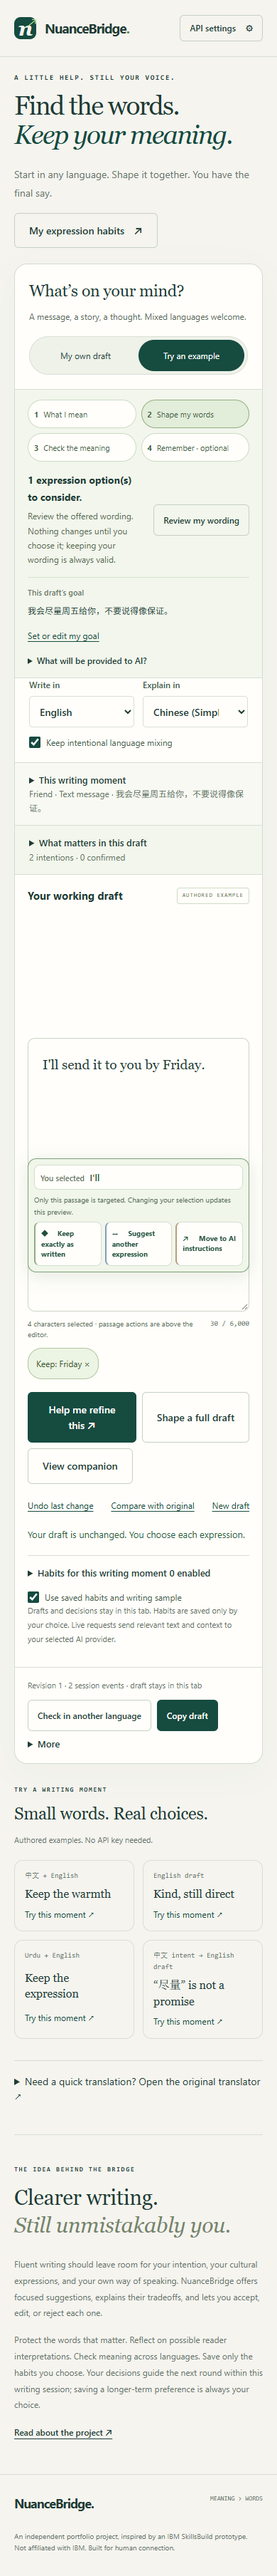
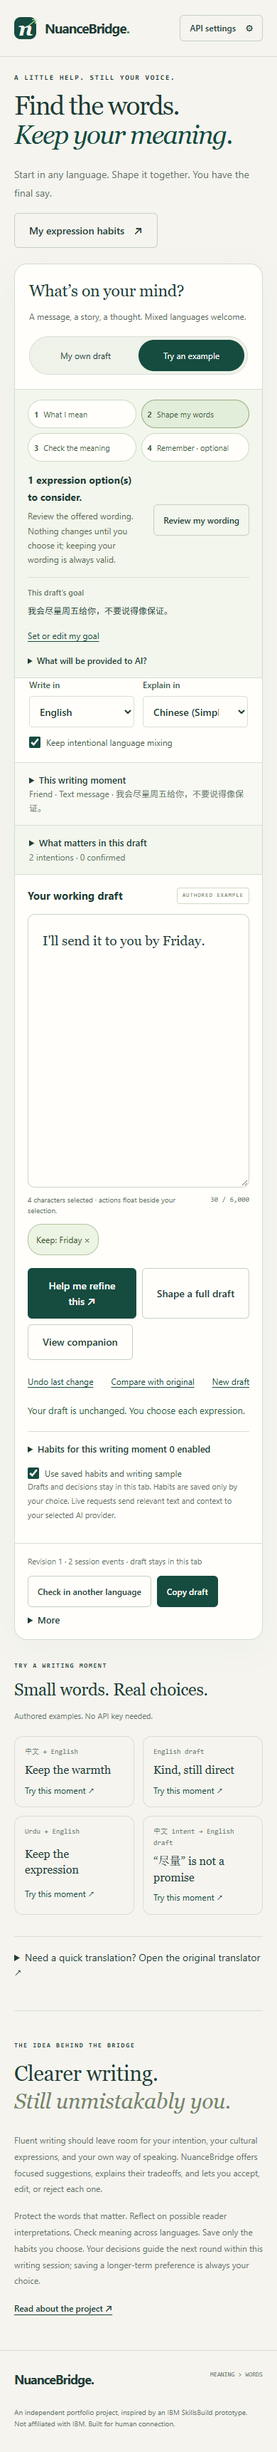
feat: anchor actions to selected text

diff --git a/selection-popover.js b/selection-popover.js
@@ -1,0 +1,79 @@
+import { $, make } from './ui-helpers.js';
+import { selectionRect, placeToolbar } from './selection-position.js';
+
+let activeRange = null, currentKey = '', dismissed = false, scheduled = false;
+function hide() {
+  const toolbar = $('selection-workbench');
+  if (toolbar.showPopover && toolbar.matches(':popover-open')) toolbar.hidePopover();
+  toolbar.classList.remove('popover-fallback-open');
+}
+function position() {
+  scheduled = false;
+  if (!activeRange || dismissed) { hide(); return; }
+  const draft = $('writing-draft'), toolbar = $('selection-workbench');
+  const anchor = selectionRect(draft, activeRange.start, activeRange.end);
+  const companionOpen = matchMedia('(max-width:750px)').matches && $('suggestions-panel').classList.contains('is-open');
+  if (!anchor || companionOpen || document.querySelector('dialog[open]')) { hide(); return; }
+  if (toolbar.showPopover) { if (!toolbar.matches(':popover-open')) toolbar.showPopover(); }
+  else { if (toolbar.parentElement !== document.body) document.body.append(toolbar); toolbar.classList.add('popover-fallback-open'); }
+  const view = window.visualViewport;
+  const viewport = { left: view?.offsetLeft || 0, top: view?.offsetTop || 0, width: view?.width || innerWidth, height: view?.height || innerHeight };
+  toolbar.style.maxWidth = `${Math.max(1, viewport.width - 20)}px`;
+  toolbar.style.maxHeight = `${Math.max(1, viewport.height - 20)}px`;
+  const placed = placeToolbar(anchor, toolbar.getBoundingClientRect(), viewport);
+  toolbar.style.left = `${placed.left}px`; toolbar.style.top = `${placed.top}px`;
+  toolbar.dataset.side = placed.side;
+  toolbar.dataset.anchorTop = String(anchor.top); toolbar.dataset.anchorBottom = String(anchor.bottom);
+}
+export function refreshSelectionPopover(range, text) {
+  const key = range ? `${range.start}:${range.end}:${text}` : '';
+  if (key !== currentKey) dismissed = false;
+  currentKey = key; activeRange = range;
+  if (!range) hide();
+  if (!scheduled) { scheduled = true; requestAnimationFrame(position); }
+}
+export function initSelectionPopover() {
+  const toolbar = $('selection-workbench'), draft = $('writing-draft');
+  const close = make('button', '×', 'selection-close'); close.type = 'button'; close.setAttribute('aria-label', 'Close passage actions');
+  close.addEventListener('click', () => { dismissed = true; hide(); draft.focus({ preventScroll: true }); });
+  toolbar.querySelector('.selection-preview').append(close);
+  const queue = () => { if (!scheduled) { scheduled = true; requestAnimationFrame(position); } };
+  window.addEventListener('scroll', queue, true); window.addEventListener('resize', queue);
+  window.visualViewport?.addEventListener('resize', queue); window.visualViewport?.addEventListener('scroll', queue);
+  if (window.ResizeObserver) new ResizeObserver(queue).observe(draft);
+  const reopen = event => {
+    if (event.key === 'Escape' || event.key === 'Tab') return;
+    if (draft.selectionStart < draft.selectionEnd) { dismissed = false; queue(); }
+  };
+  draft.addEventListener('pointerup', reopen); draft.addEventListener('keyup', reopen);
+  const isOpen = () => Boolean(toolbar.showPopover && toolbar.matches(':popover-open') || toolbar.classList.contains('popover-fallback-open'));
+  draft.addEventListener('keydown', event => {
+    if (event.key !== 'Tab' || event.shiftKey || !isOpen()) return;
+    const first = toolbar.querySelector('.selection-actions button:not(:disabled)');
+    if (first) { event.preventDefault(); first.focus(); }
+  });
+  toolbar.addEventListener('keydown', event => {
+    if (event.key !== 'Tab') return;
+    const controls = [...toolbar.querySelectorAll('button:not(:disabled)')];
+    const index = controls.indexOf(document.activeElement);
+    if (event.shiftKey && index === 0) {
+      event.preventDefault(); dismissed = true; hide(); draft.focus({ preventScroll: true });
+    } else if (!event.shiftKey && index === controls.length - 1) {
+      const outside = [...document.querySelectorAll('button,a[href],input,select,textarea,[tabindex]')]
+        .filter(node => node.tabIndex >= 0 && !node.disabled && !toolbar.contains(node) && node.getClientRects().length);
+      event.preventDefault(); dismissed = true; hide();
+      (outside[outside.indexOf(draft) + 1] || draft).focus({ preventScroll: true });
+    }
+  });
+  document.addEventListener('pointerdown', event => {
+    if (!toolbar.contains(event.target) && event.target !== draft) { dismissed = true; hide(); }
+  }, true);
+  document.addEventListener('focusin', event => {
+    if (!toolbar.contains(event.target) && event.target !== draft) { dismissed = true; hide(); }
+  });
+  document.addEventListener('keydown', event => {
+    if (event.key === 'Escape' && isOpen()) {
+      event.preventDefault(); event.stopPropagation(); dismissed = true; hide(); draft.focus({ preventScroll: true });
+    }
+  }, true);
+}

diff --git a/index.html b/index.html
@@ -42,7 +42,7 @@
       <details id="intent-panel" class="intent-panel"><summary>What matters in this draft <span id="intent-count">Add your own or let AI suggest</span></summary><p class="help">These instructions apply to this draft only. AI guesses stay out of writing requests until you confirm them. Saving a future habit is a separate choice.</p><div id="intent-list"></div><form id="intent-form" class="inline-form"><label class="grow">Add an intention<input id="new-intent" maxlength="400" placeholder="e.g. Keep the uncertainty" required></label><button class="button small outline" type="submit">Add</button></form><button id="extract-intents" class="text-button">Help me clarify my intentions</button></details>
       <div class="writing-main"><div class="draft-column">
         <div class="writing-section-heading"><h3>Your working draft</h3><span id="writing-badge" class="badge">YOUR DRAFT</span></div>
-        <div class="draft-editor-area"><section id="selection-workbench" class="selection-workbench" aria-labelledby="selection-title">
+        <div class="draft-editor-area"><section id="selection-workbench" class="selection-workbench" popover="manual" aria-labelledby="selection-title">
           <div class="selection-heading"><span class="selection-step" aria-hidden="true">1</span><h4 id="selection-title">Choose a passage, then tell us what it needs.</h4></div>
           <div class="selection-preview"><span id="selection-caption" class="field-label">Start here</span><blockquote id="selected-passage" dir="auto">Select a word or sentence in your draft below.</blockquote></div>
           <p id="selection-guidance" class="help">Highlight text below to get started.</p>
@@ -51,10 +51,11 @@
             <div class="selection-action preserve-action"><span class="action-category">KEEP THE EXPRESSION</span><button id="protect-selection" type="button" aria-describedby="protect-outcome" disabled><span aria-hidden="true">◆</span> Keep exactly as written</button><p id="protect-outcome">Keep this wording in the final draft. AI edits will leave it untouched.</p><span class="action-example">e.g. “辛苦了” stays “辛苦了”</span></div>
             <div class="selection-action express-action"><span class="action-category">EXPLORE THE WORDING</span><button id="express-selection" type="button" aria-describedby="expression-destination" disabled><span aria-hidden="true">↔</span> Suggest another expression</button><p id="expression-destination">Preview alternatives in your writing language. You choose whether to use one.</p><span class="action-example">e.g. “尽量” → “try to”</span></div>
             <div class="selection-action instruction-action"><span class="action-category">GUIDE THE AI</span><button id="instruction-selection" type="button" aria-describedby="instruction-outcome" disabled><span aria-hidden="true">↗</span> Move to AI instructions</button><p id="instruction-outcome">After you confirm, remove this note from the draft and add it to your instructions.</p><span class="action-example">e.g. “不要太正式” tells AI how to help</span></div>
-          </div><p id="selection-feedback" class="selection-feedback" role="status" aria-live="polite"></p>
+          </div>
         </section>
         <label class="sr-only" for="writing-draft">Your working draft</label><textarea id="writing-draft" maxlength="6000" rows="10" dir="auto" placeholder="先写下你想说的。English, 中文, or a little of both…"></textarea></div>
         <div class="draft-meta"><span id="writing-selection">Select words for a little extra help.</span><span id="writing-count" class="mono">0 / 6,000</span></div>
+        <p id="selection-feedback" class="selection-feedback" role="status" aria-live="polite"></p>
 
         <div id="protected-phrases" class="protected-phrases" aria-label="Protected expressions"></div>
         <div class="writing-primary-actions"><button id="analyze-writing" class="button primary">Help me refine this ↗</button><button id="starting-draft" class="button outline">Shape a full draft</button><button id="writing-cancel" class="button outline" hidden>Cancel</button><button id="open-companion" class="button outline mobile-only">View companion</button></div>

diff --git a/writing.css b/writing.css
@@ -23,3 +23,18 @@ button,input,select,textarea,summary{touch-action:manipulation}button:focus-visi
 @media(max-width:750px){.flow-guide{padding:14px 18px}.flow-navigation{display:grid;grid-template-columns:1fr 1fr;gap:7px}.flow-navigation button{justify-content:flex-start;font-size:11px;min-height:40px!important;padding:8px}.flow-next{flex-wrap:wrap}.flow-next>.button{margin-top:2px}.goal-anchor{gap:7px}.goal-anchor p{flex-basis:100%;font-size:12px}.check-steps{gap:5px}.check-steps li{padding:7px}.check-steps span{font-size:10px}.selection-workbench.has-selection{top:5px;padding:8px}.selection-workbench.has-selection .selection-actions{gap:5px}.selection-workbench.has-selection .selection-action{padding:5px;border-left-width:2px}.selection-workbench.has-selection .action-category{display:none}.selection-workbench.has-selection .selection-action button{font-size:10px;line-height:1.45;padding:3px!important;min-height:48px!important}.selection-workbench.has-selection .selection-action p{display:none}.selection-workbench.has-selection #selection-guidance{font-size:10px;margin-bottom:5px}.selection-workbench.has-selection .selection-preview{padding:6px 8px;gap:7px}.selection-workbench.has-selection #selected-passage{max-height:42px;font-size:13px}.selection-workbench.has-selection .selection-step{display:none}}
 .writing-workspace{overflow:clip}
 .draft-editor-area{position:relative;min-width:0}
+/* Actions are anchored to the visible selected text, not the editor boundary. */
+.selection-workbench[popover]{display:none;position:fixed;inset:auto;margin:0;width:min(420px,calc(100vw - 20px));max-height:calc(100dvh - 20px);overflow-y:auto;padding:8px;border:1px solid #93ad81;border-radius:10px;background:#f4f8ee;box-shadow:0 8px 30px #243f352b;z-index:40}
+.selection-workbench[popover]:popover-open{display:block}
+.selection-workbench[popover].popover-fallback-open{display:block}
+.selection-workbench[popover].has-selection{position:fixed;inset:auto;margin:0;padding:8px}
+.selection-workbench[popover]>.selection-heading,.selection-workbench[popover] .action-category,.selection-workbench[popover] .action-example,.selection-workbench[popover] .selection-action p{display:none}
+.selection-workbench[popover].has-selection .selection-preview{display:flex;align-items:center;gap:8px;padding:0 2px 6px;border:0;background:transparent}
+.selection-workbench[popover].has-selection #selected-passage{flex:1;min-width:0;max-height:none;white-space:nowrap;overflow:hidden;text-overflow:ellipsis;font-size:12px;line-height:1.7;margin:0}
+.selection-workbench[popover] #selection-caption{font-size:10px;white-space:nowrap}
+.selection-workbench[popover].has-selection #selection-guidance{font-size:10px;line-height:1.5;margin:0 2px 6px}
+.selection-workbench[popover].has-selection .selection-actions{display:grid;grid-template-columns:repeat(3,minmax(0,1fr));gap:5px}
+.selection-workbench[popover].has-selection .selection-action{padding:3px 5px;background:#fffefa;border-left-width:2px}
+.selection-workbench[popover].has-selection .selection-action button{font-size:11px;line-height:1.4;min-height:44px;padding:3px 1px}
+.selection-workbench[popover] .selection-close{border:0;background:transparent;font-size:21px;line-height:1;min-height:28px;min-width:28px;padding:0;color:#41613a}
+@media(max-width:750px){.selection-workbench[popover].has-selection .selection-action button{font-size:10px;min-height:44px!important;padding:3px 1px!important}.selection-workbench[popover].has-selection #selection-guidance{font-size:10px}.selection-workbench[popover] .selection-close{min-height:28px!important}.selection-workbench[popover].has-selection #selected-passage{max-height:none}}

diff --git a/selection-position.js b/selection-position.js
@@ -1,0 +1,44 @@
+const clamp = (value, min, max) => Math.max(min, Math.min(value, Math.max(min, max)));
+
+export function placeToolbar(anchor, size, viewport) {
+  const gap = 10, left = viewport.left + gap, top = viewport.top + gap;
+  const right = viewport.left + viewport.width - gap, bottom = viewport.top + viewport.height - gap;
+  const above = anchor.top - gap - size.height;
+  const below = anchor.bottom + gap;
+  const side = above >= top ? 'above' : below + size.height <= bottom ? 'below' : anchor.top - top >= bottom - anchor.bottom ? 'above' : 'below';
+  return { left: clamp((anchor.left + anchor.right - size.width) / 2, left, right - size.width),
+    top: clamp(side === 'above' ? above : below, top, bottom - size.height), side };
+}
+
+// Textareas expose offsets, not Range rectangles. Mirror their rendered text metrics.
+export function selectionRect(textarea, start, end) {
+  if (start >= end || end > textarea.value.length) return null;
+  const box = textarea.getBoundingClientRect(), css = getComputedStyle(textarea);
+  const mirror = document.createElement('div');
+  for (const key of ['fontFamily', 'fontSize', 'fontWeight', 'fontStyle', 'fontVariant', 'fontStretch', 'fontKerning', 'fontFeatureSettings', 'fontVariantLigatures', 'letterSpacing', 'wordSpacing', 'lineHeight', 'textAlign', 'textIndent', 'textTransform', 'direction', 'tabSize', 'paddingTop', 'paddingRight', 'paddingBottom', 'paddingLeft', 'borderTopWidth', 'borderRightWidth', 'borderBottomWidth', 'borderLeftWidth']) mirror.style[key] = css[key];
+  const borders = parseFloat(css.borderLeftWidth) + parseFloat(css.borderRightWidth);
+  Object.assign(mirror.style, { position: 'fixed', visibility: 'hidden', pointerEvents: 'none', boxSizing: 'border-box',
+    left: `${box.left}px`, top: `${box.top}px`, width: `${textarea.clientWidth + borders}px`,
+    whiteSpace: 'pre-wrap', overflowWrap: 'break-word', borderStyle: 'solid', margin: '0' });
+  mirror.dir = textarea.dir;
+  const selected = document.createTextNode(textarea.value.slice(start, end));
+  mirror.append(document.createTextNode(textarea.value.slice(0, start)), selected, document.createTextNode(textarea.value.slice(end) || '\u200b'));
+  document.body.append(mirror);
+  try {
+    const range = document.createRange(); range.selectNodeContents(selected);
+    const viewport = window.visualViewport;
+    const clip = { left: Math.max(box.left + parseFloat(css.borderLeftWidth), viewport?.offsetLeft || 0),
+      right: Math.min(box.left + textarea.clientWidth + parseFloat(css.borderLeftWidth), (viewport?.offsetLeft || 0) + (viewport?.width || innerWidth)),
+      top: Math.max(box.top + parseFloat(css.borderTopWidth), viewport?.offsetTop || 0),
+      bottom: Math.min(box.bottom - parseFloat(css.borderBottomWidth), (viewport?.offsetTop || 0) + (viewport?.height || innerHeight)) };
+    for (const rect of range.getClientRects()) {
+      const left = rect.left - textarea.scrollLeft, top = rect.top - textarea.scrollTop;
+      const right = rect.right - textarea.scrollLeft, bottom = rect.bottom - textarea.scrollTop;
+      if (bottom > clip.top && top < clip.bottom && right >= clip.left && left <= clip.right) return {
+        left: Math.max(left, clip.left), right: Math.min(Math.max(right, left + 1), clip.right),
+        top: Math.max(top, clip.top), bottom: Math.min(bottom, clip.bottom),
+      };
+    }
+    return null;
+  } finally { mirror.remove(); }
+}

diff --git a/selection-ui.js b/selection-ui.js
@@ -1,4 +1,5 @@
 import { $, make } from './ui-helpers.js';
+import { refreshSelectionPopover } from './selection-popover.js';
 
 // This is a display of the actual textarea range, never an inferred selection.
 export function renderSelection(session, selection, target, busy = false) {
@@ -7,7 +8,7 @@ export function renderSelection(session, selection, target, busy = false) {
   $('selection-workbench').classList.toggle('has-selection', Boolean(selected));
   $('selected-passage').replaceChildren(make('span', selected || 'Select a word or sentence in your draft below.'));
   $('selection-caption').textContent = selected ? 'You selected' : 'Start here';
-  $('writing-selection').textContent = selected ? `${selection.end - selection.start} characters selected · passage actions are above the editor.` : 'Highlight a word or sentence to use the passage controls above the editor.';
+  $('writing-selection').textContent = selected ? `${selection.end - selection.start} characters selected · actions float beside your selection.` : 'Highlight a word or sentence to see actions beside it.';
   $('selection-guidance').textContent = overlap
     ? 'This selection includes protected words. Remove their protection chip before protecting it again or moving it to instructions. Wording suggestions cannot change protected words.'
     : selected ? 'Only this passage is targeted. Changing your selection updates this preview.'
@@ -16,4 +17,8 @@ export function renderSelection(session, selection, target, busy = false) {
   $('express-selection').disabled = !selected || busy;
   $('instruction-selection').disabled = !selected || Boolean(overlap);
   $('expression-destination').textContent = `Preview alternatives in ${target || 'your writing language'}. Nothing changes until you accept.`;
+  for (const id of ['protect-selection', 'express-selection', 'instruction-selection']) {
+    const node = $(id); node.title = $(node.getAttribute('aria-describedby')).textContent;
+  }
+  refreshSelectionPopover(selection, session.text);
 }

diff --git a/tests/selection-position.test.js b/tests/selection-position.test.js
@@ -1,0 +1,20 @@
+import test from 'node:test';
+import assert from 'node:assert/strict';
+import { placeToolbar } from '../selection-position.js';
+
+test('toolbar sits immediately above selected words, not the editor boundary', () => {
+  const result = placeToolbar({ left: 200, right: 300, top: 400, bottom: 425 }, { width: 300, height: 70 }, { left: 0, top: 0, width: 1000, height: 800 });
+  assert.equal(result.top, 320); assert.equal(result.left, 100); assert.equal(result.side, 'above');
+});
+test('viewport edges clamp horizontally and flip below when above cannot fit', () => {
+  const viewport = { left: 0, top: 0, width: 320, height: 640 };
+  const result = placeToolbar({ left: 3, right: 40, top: 20, bottom: 42 }, { width: 300, height: 100 }, viewport);
+  assert.equal(result.left, 10); assert.equal(result.top, 52); assert.equal(result.side, 'below');
+  const right = placeToolbar({ left: 300, right: 318, top: 400, bottom: 420 }, { width: 300, height: 70 }, viewport);
+  assert.equal(right.left, 10); assert(right.top + 70 < 400);
+});
+test('visual viewport offsets and tight vertical space stay within the visible screen', () => {
+  const result = placeToolbar({ left: 150, right: 200, top: 250, bottom: 280 }, { width: 250, height: 100 }, { left: 50, top: 200, width: 300, height: 160 });
+  assert(result.left >= 60); assert(result.left + 250 <= 340);
+  assert(result.top >= 210); assert(result.top + 100 <= 350);
+});

diff --git a/writing-ui.js b/writing-ui.js
@@ -10,6 +10,7 @@ import { renderOptions, renderEvents } from './writing-panels.js';
 import { renderSelection } from './selection-ui.js';
 import { initFlowGuide } from './flow-ui.js';
 import { confirmedIntentions } from './intent-state.js';
+import { initSelectionPopover } from './selection-popover.js';
 
 export function initWriting({ getConnection, notify }) {
   let session = createSession(), demo = false, sample = null, suggestions = [], selection = null;
@@ -278,6 +279,6 @@ export function initWriting({ getConnection, notify }) {
     reviewIntentions: () => { $('intent-panel').open = true; (document.querySelector('.intent-card button') || $('new-intent')).focus(); },
     write: () => { if (suggestions.length) { showPanel('suggestions'); document.querySelector('.suggestion-card button')?.focus(); } else { $('suggestions-panel').classList.remove('is-open'); $('writing-draft').focus(); } },
     check: () => { showPanel('check'); $('back-translate').focus(); }, remember: () => candidate ? rememberCandidate(candidate) : memory.open() });
-  updateSession(); renderSuggestions(); renderEvents(events);
+  initSelectionPopover(); updateSession(); renderSuggestions(); renderEvents(events);
   return { openHabits: () => memory.open(), habitsFor: otherContext => memory.forContext(otherContext).map(x => x.content) };
 }

diff --git a/README.md b/README.md
@@ -26,9 +26,9 @@ On phones the companion opens as a dismissible bottom panel, preserving the draf
 
 Select a passage to **keep these words**, **find an expression**, or mark **this is a note to AI**. Moving a note out of the final draft requires confirmation. Undo restores moved notes and their prior task instructions unless those instructions were subsequently edited.
 
-The passage workbench shows the actual selected words above three outcome cards: **Keep exactly as written**, **Suggest another expression**, and **Move to AI instructions**. Descriptions and examples explain what stays in the final text, what needs a preview, and what moves out of it. Unavailable actions are disabled with visible guidance; completed protection and note moves show local feedback and an undo path. This guidance draws on metacognitive-scaffolding considerations from [Ramesh et al., CHI 2026](https://arxiv.org/abs/2602.05111), applied here as a writing-interface design hypothesis rather than a proven outcome.
+Selecting a passage opens three contextual actions: **Keep exactly as written**, **Suggest another expression**, and **Move to AI instructions**. Descriptive labels, hover help and accessible explanations distinguish keeping the original wording, previewing alternatives and moving a note out of the final text. Unavailable actions are disabled with guidance; completed protection and note moves show local feedback and an undo path. This guidance draws on metacognitive-scaffolding considerations from [Ramesh et al., CHI 2026](https://arxiv.org/abs/2602.05111), applied here as a writing-interface design hypothesis rather than a proven outcome.
 
-The workbench now sits **above the editor**, contracts when idle and becomes a compact sticky toolbar while a passage is selected. It stays within the editor area on desktop and phone; keyboard selection and focus restoration are supported. The rest of the journey also applies the paper's ideas of visible goals, workflow guidance, input transparency and user-controlled stopping cues, without treating health-domain findings as writing-usability evidence.
+The toolbar floats **immediately above the visible selected words**, including selections in the middle of the textarea. A local text-layout mirror accounts for soft wrapping, mixed scripts and internal scrolling. It tracks page scrolling, resizing and the visual viewport, flips below only if necessary and hides when the selection leaves view or another mobile panel is open. Click elsewhere, use its close button, or press Escape to dismiss. Keyboard selection followed by Tab enters the actions; Tab can leave without trapping focus. The rest of the journey applies the paper's ideas of visible goals, workflow guidance, input transparency and user-controlled stopping cues, without treating health-domain findings as writing-usability evidence.
 
 Protection applies to the selected occurrence, including repeated expressions and Unicode. It is enforced in code for manual edits, local replacements and full starting drafts. Remove a protection chip before changing that expression.
 

diff --git a/plan/selection-popover.md b/plan/selection-popover.md
@@ -1,0 +1,9 @@
+# Selection-anchored passage actions
+
+User clarification: the toolbar must float above the actual selected words, not stick above the entire editor.
+
+Implementation: mirror textarea typography and wrapping in an invisible measurement element, use DOM Range line fragments to locate the visible part of the actual UTF-16 selection, subtract textarea scrolling, and anchor a compact top-layer popover there. Prefer above; flip below only when necessary to keep it onscreen. Recompute on selection, textarea/page scroll, resize and visual-viewport changes. Hide when the selected text scrolls out of view, close on outside interaction/Escape, and preserve the selected range when operating toolbar buttons. Retain protection, selected-only replacement and note-move confirmations.
+
+Verify pure placement edge cases and browser geometry on distinct lines, wrapped mixed-language text, internal/page scroll, narrow screens, dismissal, keyboard selection and all existing writing flows. Inspect screenshots, obtain independent code review, publish and verify deployment. Do not modify or commit the user's unrelated PDF.
+
+Implementation evidence: placement tests failed before implementation and now pass; all 45 unit tests, syntax and diff checks pass. Full Chrome suite passes with selection-line movement, wrapped mixed-language anchors, internal/page scroll, offscreen hide/return, viewport bounds, Escape/outside dismissal and keyboard-only selected-wording actions/Tab exit. Inspected the mobile viewport screenshot showing actions immediately above line 12 inside the editor. Fixed mobile-panel overlap; toolbar yields to it. Visual viewport maximum dimensions are applied before measuring; textarea resizing is observed. A code reviewer approved the geometry/selection integration and identified keyboard/zoom improvements, which were implemented and regression-tested.
